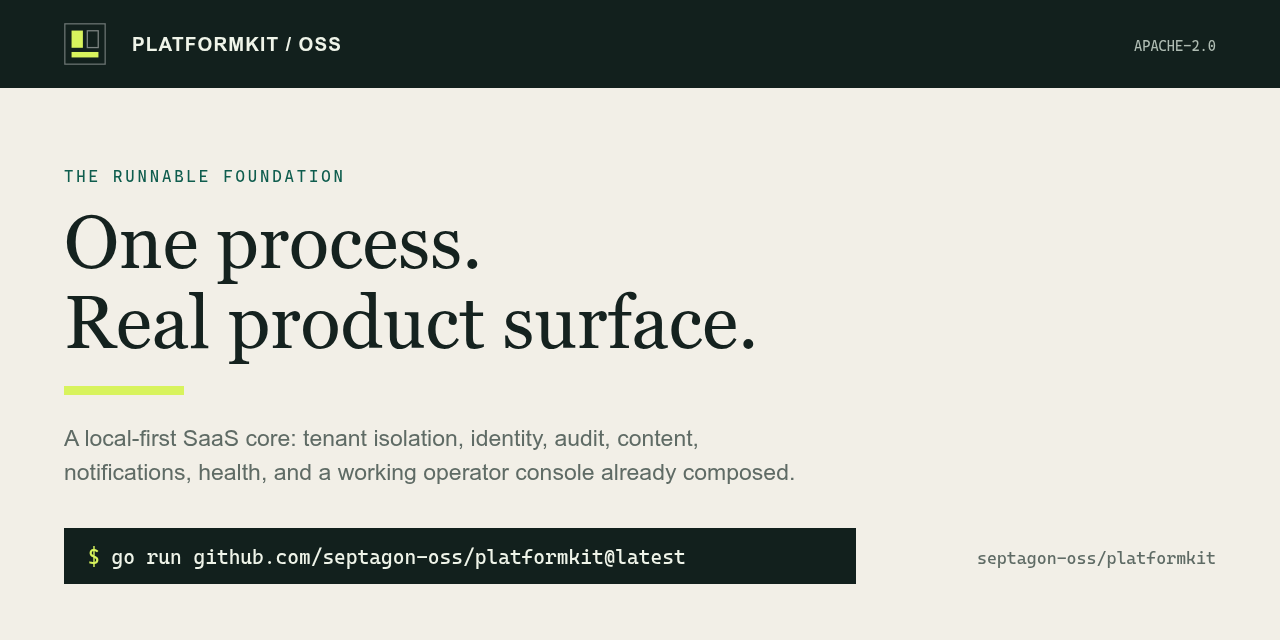
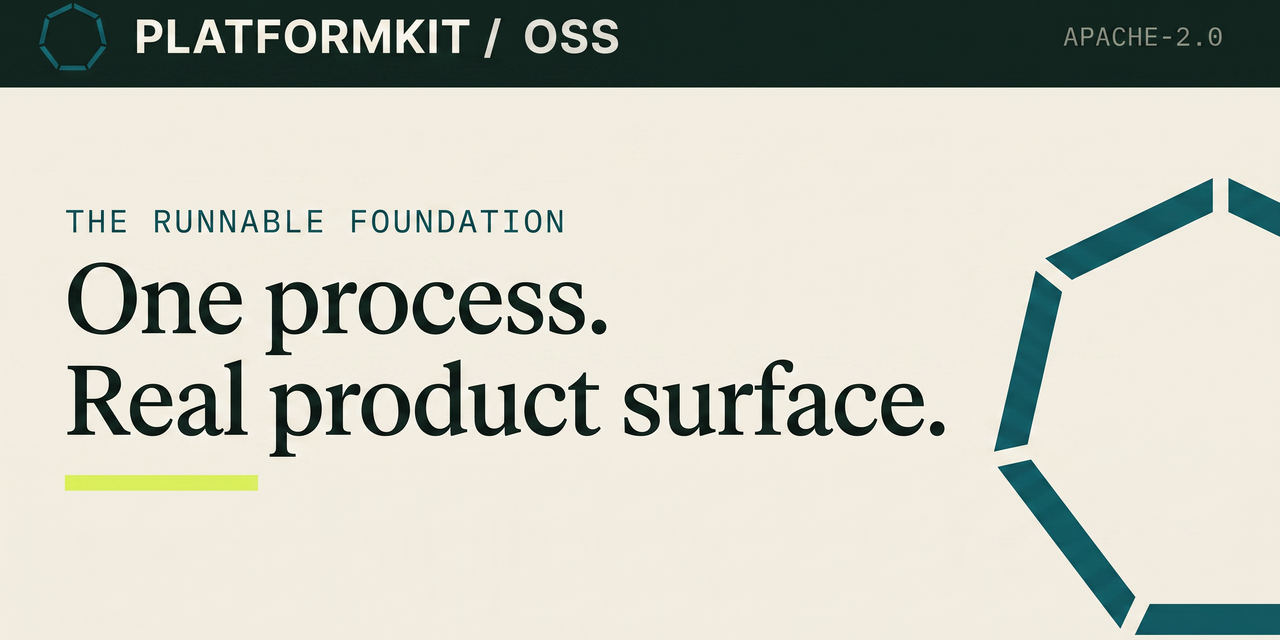
docs: the brand assets become the generated heptagon art itself
The 25 Jul pass hand-redrew the console's rect mark and shelved the
Higgsfield-generated heptagons as 'a competing heptagon'. That was the wrong
call: the generated marks are the real art — a heptagon of seven modular
segments, for an org literally named septagon-oss — and the teal batch already
sits on the palette the product ships, which was the whole objection.

So the placeholders give way to the generations:

- logo.png / logo-avatar.png are the deep-teal segmented heptagon
  (generation 1d7a5a55), margins intact for a circular crop.
- og-card.png is generated from that mark as reference, on the shipped
  palette with the landing page's own words, cropped to 1280x640.
- hero.svg keeps its factual diagram but its header band now draws the
  same segmented heptagon instead of the rect mark.
- The hand-drawn logo.svg, logo-avatar.svg and og-card.svg are superseded
  by the art and leave; git history keeps them.

README shows the mark beside the title so the repo, the avatar and the
social card finally agree on one identity.

diff --git a/README.md b/README.md
@@ -1,3 +1,5 @@
+<img src="docs/logo.png" alt="PlatformKit — seven modular segments assembling into one heptagon" width="96" align="right">
+
 # PlatformKit
 
 **A runnable, open-source Go foundation for multi-tenant SaaS.** Clone it, run
